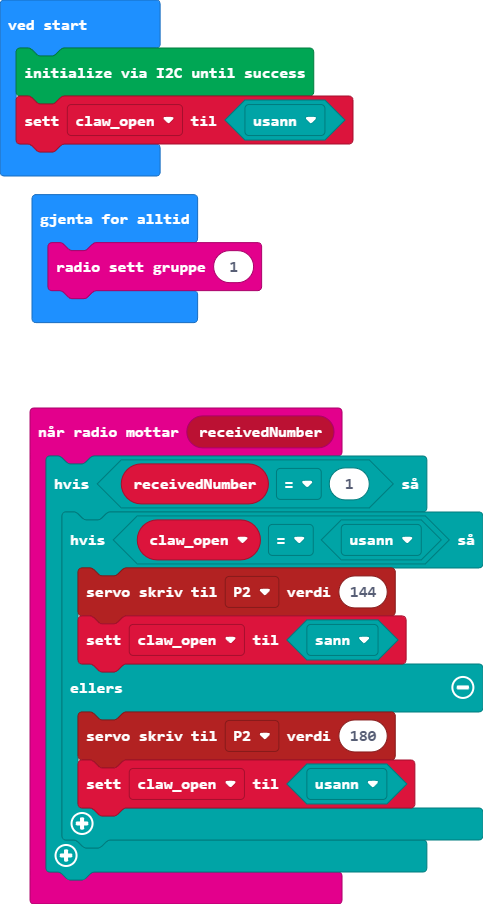
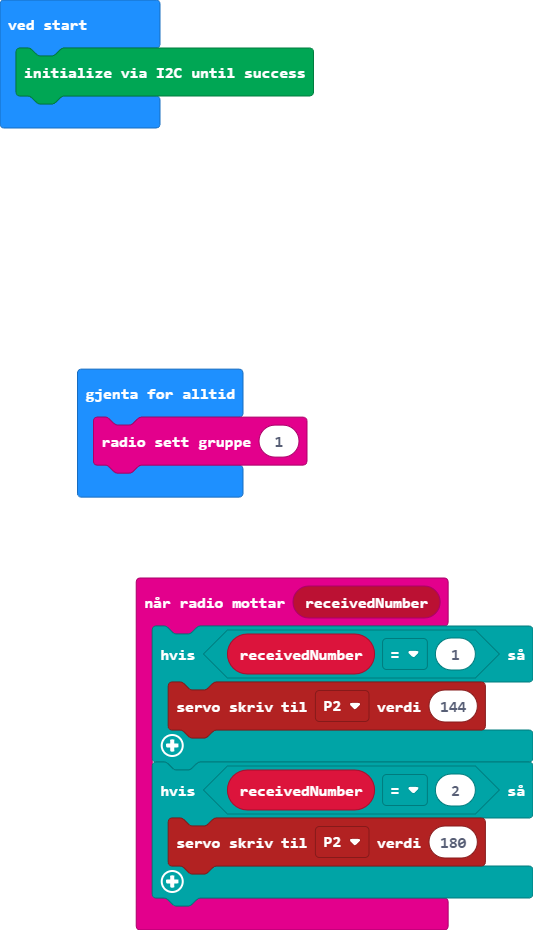
Oppdater main.blocks, main.ts

diff --git a/main.ts b/main.ts
@@ -1,17 +1,12 @@
 radio.onReceivedNumber(function (receivedNumber) {
     if (receivedNumber == 1) {
-        if (claw_open == false) {
-            pins.servoWritePin(AnalogPin.P2, 144)
-            claw_open = true
-        } else {
-            pins.servoWritePin(AnalogPin.P2, 180)
-            claw_open = false
-        }
+        pins.servoWritePin(AnalogPin.P2, 144)
+    }
+    if (receivedNumber == 2) {
+        pins.servoWritePin(AnalogPin.P2, 180)
     }
 })
-let claw_open = false
 DFRobotMaqueenPlus.I2CInit()
-claw_open = false
 basic.forever(function () {
     radio.setGroup(1)
 })
